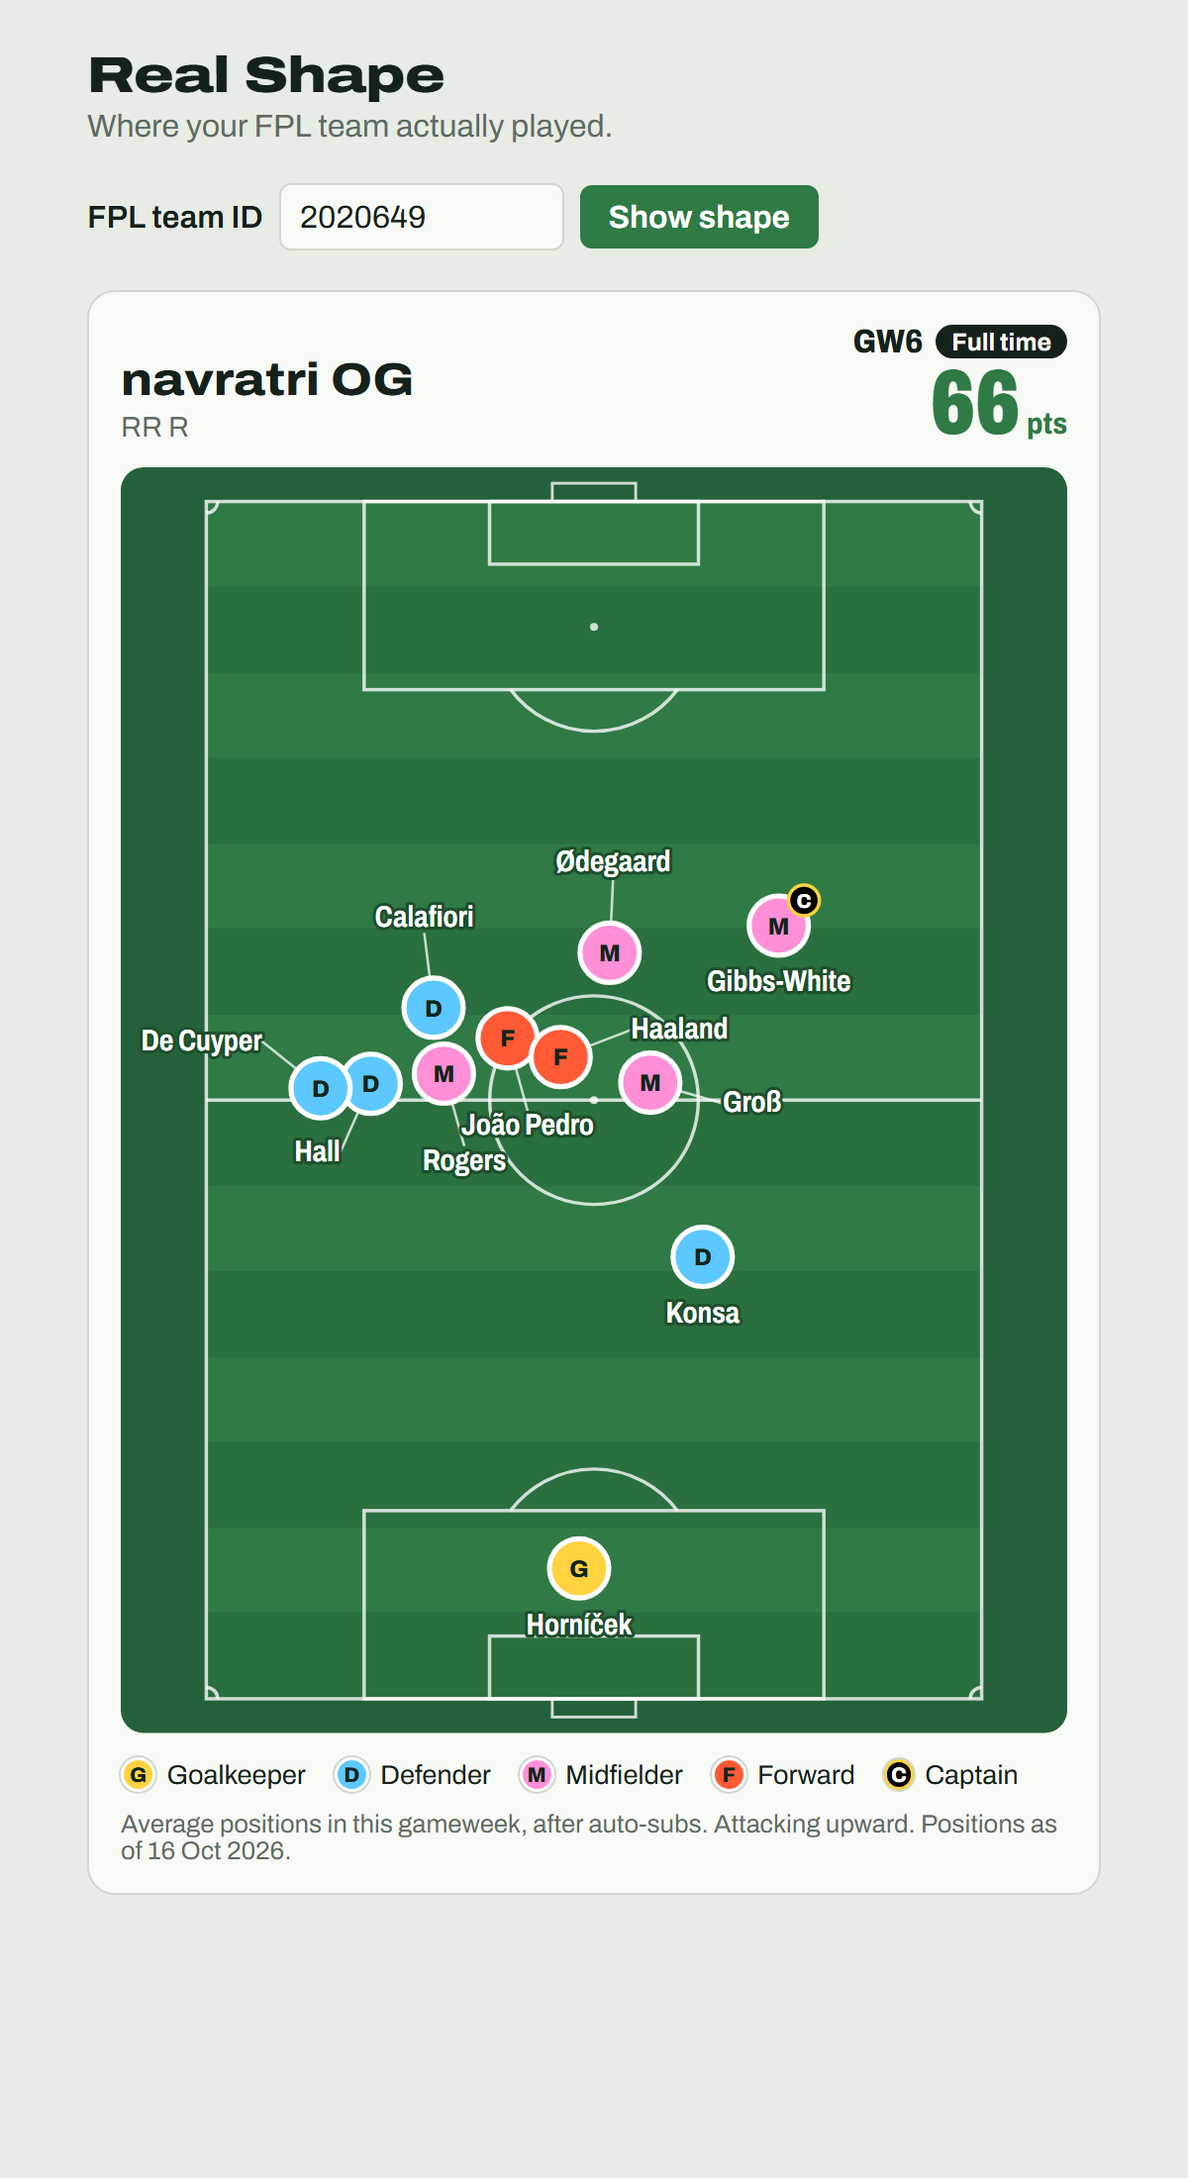
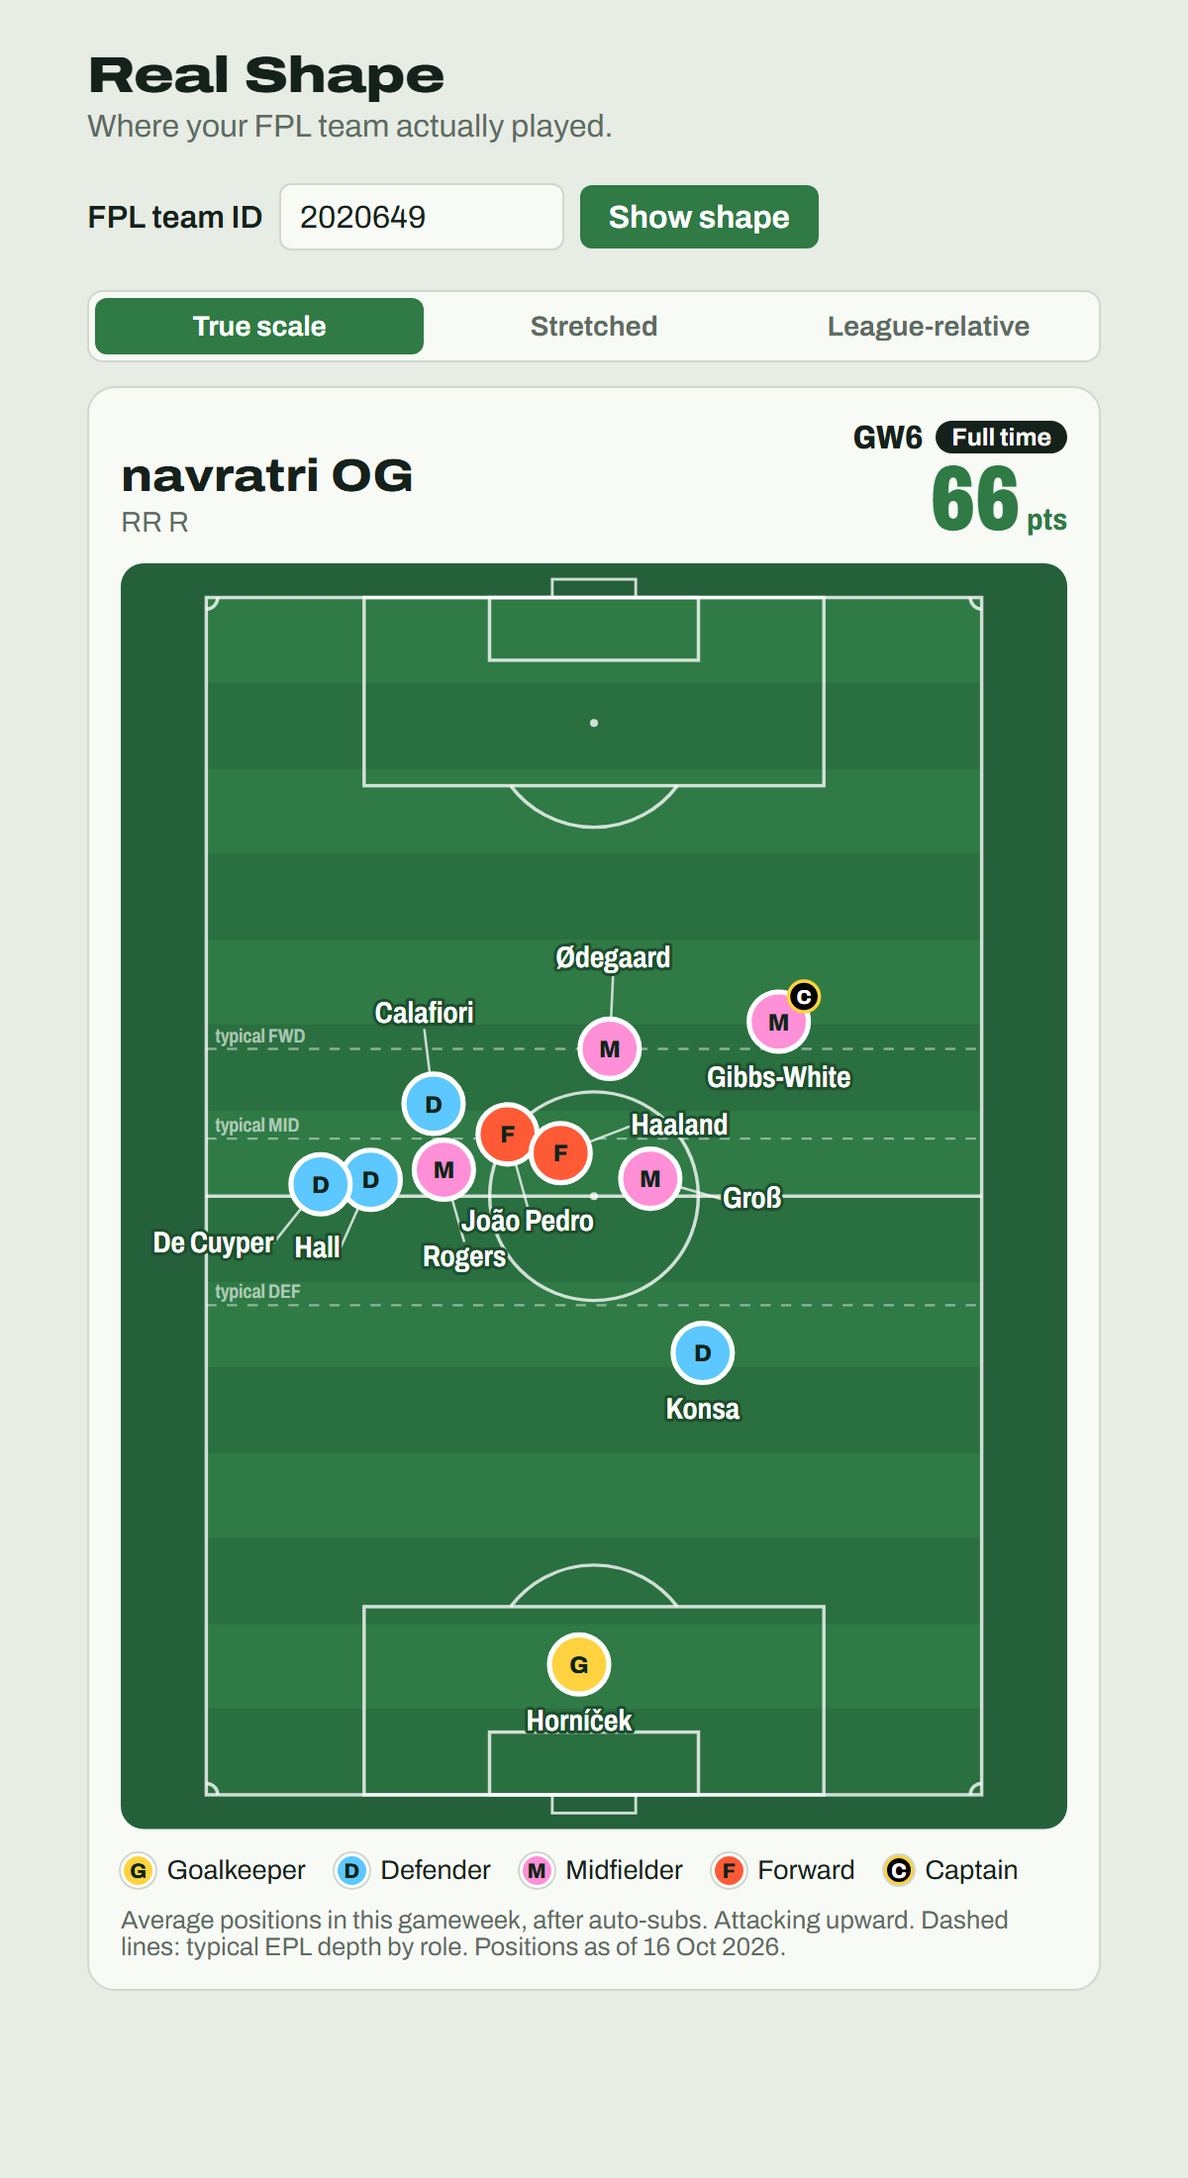
Add depth view buttons: true scale (default), stretched, league-relative (task 13 feedback)

diff --git a/frontend/src/pitchLayout.ts b/frontend/src/pitchLayout.ts
@@ -47,6 +47,51 @@ export type Layout = {
   links: [LaidDot, LaidDot][]
 }
 
+// --- Depth display modes (prototype, owner to pick one) ---------------------
+// true: as measured. stretch: one fixed piecewise-linear stretch of the
+// outfield range. league: outfield depth as a percentile of every EPL outfield
+// player-match (60+ min, GW1-6).
+export type DepthMode = 'true' | 'stretch' | 'league'
+
+// League medians of average depth by role (60+ min, GW1-6), for reference lines.
+export const ROLE_MEDIAN_DEPTH = { DEF: 40.9, MID: 54.8, FWD: 62.3 }
+
+// Outfield average depth at the 0th, 5th, ..., 100th percentile.
+const LEAGUE_QUANTILES = [
+  23.0, 32.0, 35.0, 37.4, 40.0, 41.6, 43.7, 45.4, 46.7, 48.7, 50.3, 51.6, 53.3, 54.9, 56.8, 58.7,
+  60.5, 62.4, 64.2, 67.1, 79.7,
+]
+
+// Keeper zone unchanged, outfield range ~30-75 spread over 24-90.
+const STRETCH: [number, number][] = [
+  [0, 0],
+  [15, 15],
+  [30, 24],
+  [75, 90],
+  [100, 100],
+]
+
+function interpolate(points: [number, number][], v: number) {
+  for (let i = 1; i < points.length; i++) {
+    const [x0, y0] = points[i - 1]
+    const [x1, y1] = points[i]
+    if (v <= x1) return y0 + ((Math.max(v, x0) - x0) / (x1 - x0)) * (y1 - y0)
+  }
+  return points[points.length - 1][1]
+}
+
+export function displayDepth(y: number, role: Role, mode: DepthMode): number {
+  if (mode === 'stretch') return interpolate(STRETCH, y)
+  if (mode === 'league' && role !== 'GK') {
+    const percentile = interpolate(
+      LEAGUE_QUANTILES.map((q, i) => [q, i / 20] as [number, number]),
+      y,
+    )
+    return 20 + percentile * 70
+  }
+  return y
+}
+
 export function toSvg(x: number, y: number): [number, number] {
   return [MARGIN.left + (x / 100) * PITCH_W, MARGIN.top + ((100 - y) / 100) * PITCH_L]
 }
@@ -155,8 +200,25 @@ function labelAt(d: LaidDot, angle: number, px: number, py: number): LaidDot['la
   return { x: px, y: sin > 0 ? py + NAME_SIZE * 0.8 : py - h + NAME_SIZE * 0.8, anchor: 'middle' }
 }
 
-function placeLabels(dots: LaidDot[]) {
-  const placed: Box[] = []
+// Where Pitch draws the "typical DEF / MID / FWD" text in the true-scale view.
+export const REFERENCE_LABEL = { dx: 0.8, dy: -0.6, size: 1.7 }
+
+export function referenceLabelBoxes(): Box[] {
+  return Object.entries(ROLE_MEDIAN_DEPTH).map(([role, depth]) => {
+    const [, y] = toSvg(0, depth)
+    const x0 = MARGIN.left + REFERENCE_LABEL.dx
+    const base = y + REFERENCE_LABEL.dy
+    return {
+      x0,
+      y0: base - REFERENCE_LABEL.size,
+      x1: x0 + textWidth(`typical ${role}`, REFERENCE_LABEL.size),
+      y1: base + 0.3,
+    }
+  })
+}
+
+function placeLabels(dots: LaidDot[], obstacles: Box[]) {
+  const placed: Box[] = [...obstacles]
   const lines: Segment[] = []
   const inside = (b: Box) => b.x0 >= 0 && b.x1 <= VIEW_W && b.y0 >= 0 && b.y1 <= VIEW_H
   const crowded = new Set(
@@ -220,7 +282,7 @@ function placeLabels(dots: LaidDot[]) {
   }
 }
 
-export function layoutDots(dots: PlotDot[]): Layout {
+export function layoutDots(dots: PlotDot[], depth: DepthMode = 'true'): Layout {
   const onPitch: LaidDot[] = []
   const ghosts: LaidDot[] = []
   dots.forEach((dot, i) => {
@@ -240,12 +302,12 @@ export function layoutDots(dots: PlotDot[]): Layout {
       })
       return
     }
-    const [cx, cy] = toSvg(dot.x, dot.y)
+    const [cx, cy] = toSvg(dot.x, displayDepth(dot.y, dot.role, depth))
     onPitch.push({ dot, key, cx, cy, r: DOT_R, label: { x: cx, y: cy, anchor: 'middle' }, sub: subLabel(dot), leader: null })
   })
 
   separate(onPitch)
-  placeLabels(onPitch)
+  placeLabels(onPitch, depth === 'true' ? referenceLabelBoxes() : [])
 
   const links: [LaidDot, LaidDot][] = []
   const byGroup = new Map<number, LaidDot[]>()

diff --git a/frontend/src/App.tsx b/frontend/src/App.tsx
@@ -5,6 +5,7 @@ import { type FormEvent, useEffect, useState } from 'react'
 
 import { ApiError, fetchPlot, type Plot } from './api'
 import PitchCard from './PitchCard'
+import type { DepthMode } from './pitchLayout'
 
 const ERROR_MESSAGES: Record<string, string> = {
   team_not_found: 'No FPL team has this ID.',
@@ -24,7 +25,14 @@ function readUrl() {
     const value = Number(params.get(key))
     return Number.isInteger(value) && value > 0 ? value : null
   }
-  return { team: num('team'), gw: num('gw'), fixture: params.get('fixture') }
+  const depth = params.get('depth')
+  return {
+    team: num('team'),
+    gw: num('gw'),
+    fixture: params.get('fixture'),
+    // Prototype switch while the owner picks a depth display (task 13).
+    depth: (depth === 'stretch' || depth === 'league' ? depth : 'true') as DepthMode,
+  }
 }
 
 function writeUrl(team: number, gw: number) {
@@ -34,11 +42,25 @@ function writeUrl(team: number, gw: number) {
   window.history.replaceState(null, '', url)
 }
 
+const DEPTH_VIEWS: { mode: DepthMode; label: string; hint: string }[] = [
+  { mode: 'true', label: 'True scale', hint: 'Positions as measured, with typical depth by role' },
+  { mode: 'stretch', label: 'Stretched', hint: 'Depth stretched so the outfield spreads over the pitch' },
+  { mode: 'league', label: 'League-relative', hint: 'Height = how advanced compared with all EPL outfield players' },
+]
+
+function writeDepth(depth: DepthMode) {
+  const url = new URL(window.location.href)
+  if (depth === 'true') url.searchParams.delete('depth')
+  else url.searchParams.set('depth', depth)
+  window.history.replaceState(null, '', url)
+}
+
 function App() {
   const initial = readUrl()
   const [input, setInput] = useState(initial.team ? String(initial.team) : '')
   const [teamId, setTeamId] = useState<number | null>(initial.team)
   const [gw] = useState<number | null>(initial.gw)
+  const [depth, setDepth] = useState<DepthMode>(initial.depth)
   const [result, setResult] = useState<Result | null>(null)
   const [inputError, setInputError] = useState<string | null>(null)
   const [fixture, setFixture] = useState<Plot | null>(null)
@@ -99,10 +121,28 @@ function App() {
       </form>
 
       {inputError && <p className="error">{inputError}</p>}
-      {fixture && <PitchCard plot={fixture} />}
+      {(fixture || (current && 'plot' in current)) && (
+        <div className="view-switch" role="group" aria-label="Depth view">
+          {DEPTH_VIEWS.map((v) => (
+            <button
+              key={v.mode}
+              type="button"
+              title={v.hint}
+              aria-pressed={depth === v.mode}
+              onClick={() => {
+                setDepth(v.mode)
+                writeDepth(v.mode)
+              }}
+            >
+              {v.label}
+            </button>
+          ))}
+        </div>
+      )}
+      {fixture && <PitchCard plot={fixture} depth={depth} />}
       {!fixture && key !== null && current === null && <p className="muted">Loading…</p>}
       {!fixture && current && 'error' in current && <p className="error">{current.error}</p>}
-      {!fixture && current && 'plot' in current && <PitchCard plot={current.plot} />}
+      {!fixture && current && 'plot' in current && <PitchCard plot={current.plot} depth={depth} />}
     </main>
   )
 }

diff --git a/frontend/src/PitchCard.tsx b/frontend/src/PitchCard.tsx
@@ -3,7 +3,13 @@
 
 import type { Plot, Role } from './api'
 import Pitch from './Pitch'
-import { ROLE_LETTER } from './pitchLayout'
+import { type DepthMode, ROLE_LETTER } from './pitchLayout'
+
+const DEPTH_NOTE: Record<DepthMode, string> = {
+  true: 'Dashed lines: typical EPL depth by role.',
+  stretch: 'Depth stretched for readability.',
+  league: 'Height = how advanced compared with all EPL outfield players.',
+}
 
 const ROLE_NAMES: Record<Role, string> = {
   GK: 'Goalkeeper',
@@ -22,7 +28,7 @@ function formatDate(iso: string) {
   return new Date(`${iso}Z`).toLocaleDateString('en-GB', { day: 'numeric', month: 'short', year: 'numeric' })
 }
 
-export default function PitchCard({ plot }: { plot: Plot }) {
+export default function PitchCard({ plot, depth = 'true' }: { plot: Plot; depth?: DepthMode }) {
   const state = STATE_TEXT[plot.state]
   const hasGhosts = plot.dots.some((d) => d.is_ghost)
   const hasLinks = plot.dots.some((d) => d.link_group !== null)
@@ -46,7 +52,11 @@ export default function PitchCard({ plot }: { plot: Plot }) {
         </div>
       </header>
 
-      <Pitch dots={plot.dots} title={`${plot.team_name}, gameweek ${plot.gw}: real average positions`} />
+      <Pitch
+        dots={plot.dots}
+        depth={depth}
+        title={`${plot.team_name}, gameweek ${plot.gw}: real average positions`}
+      />
 
       <footer className="card-foot">
         <ul className="legend">
@@ -74,7 +84,7 @@ export default function PitchCard({ plot }: { plot: Plot }) {
           )}
         </ul>
         <p className="card-note">
-          {state.note} Attacking upward.
+          {state.note} Attacking upward. {DEPTH_NOTE[depth]}
           {plot.data_as_of && ` Positions as of ${formatDate(plot.data_as_of)}.`}
         </p>
       </footer>

diff --git a/frontend/src/Pitch.tsx b/frontend/src/Pitch.tsx
@@ -5,12 +5,16 @@ import { useMemo } from 'react'
 
 import type { PlotDot } from './api'
 import {
+  type DepthMode,
   type LaidDot,
   layoutDots,
   MARGIN,
   NAME_SIZE,
   PITCH_L,
   ROLE_LETTER,
+  REFERENCE_LABEL,
+  ROLE_MEDIAN_DEPTH,
+  toSvg,
   PITCH_W,
   SUB_SIZE,
   VIEW_H,
@@ -124,8 +128,34 @@ function Ghost({ d }: { d: LaidDot }) {
   )
 }
 
-export default function Pitch({ dots, title }: { dots: PlotDot[]; title: string }) {
-  const layout = useMemo(() => layoutDots(dots), [dots])
+function ReferenceLines() {
+  return (
+    <g className="reference">
+      {(Object.entries(ROLE_MEDIAN_DEPTH) as [string, number][]).map(([role, depth]) => {
+        const [, y] = toSvg(0, depth)
+        return (
+          <g key={role}>
+            <line x1={L} y1={y} x2={L + PITCH_W} y2={y} />
+            <text x={L + REFERENCE_LABEL.dx} y={y + REFERENCE_LABEL.dy} fontSize={REFERENCE_LABEL.size}>
+              {`typical ${role}`}
+            </text>
+          </g>
+        )
+      })}
+    </g>
+  )
+}
+
+export default function Pitch({
+  dots,
+  title,
+  depth = 'true',
+}: {
+  dots: PlotDot[]
+  title: string
+  depth?: DepthMode
+}) {
+  const layout = useMemo(() => layoutDots(dots, depth), [dots, depth])
   return (
     <svg className="pitch" viewBox={`0 0 ${VIEW_W} ${VIEW_H}`} role="img" aria-label={title}>
       <rect className="pitch-surround" x={0} y={0} width={VIEW_W} height={VIEW_H} rx={2} />
@@ -140,6 +170,7 @@ export default function Pitch({ dots, title }: { dots: PlotDot[]; title: string 
         />
       ))}
       <Markings />
+      {depth === 'true' && <ReferenceLines />}
       {layout.links.map(([a, b]) => (
         <line key={`${a.key}-link`} className="link" x1={a.cx} y1={a.cy} x2={b.cx} y2={b.cy} />
       ))}

diff --git a/frontend/src/index.css b/frontend/src/index.css
@@ -113,6 +113,29 @@ input:focus-visible {
   color: var(--muted);
 }
 
+.view-switch {
+  display: flex;
+  margin-bottom: 0.75rem;
+  border: 1px solid var(--card-line);
+  border-radius: 8px;
+  background: var(--card);
+  padding: 3px;
+  gap: 3px;
+}
+
+.view-switch button {
+  flex: 1;
+  padding: 0.4rem 0.5rem;
+  font-size: 0.88rem;
+  background: transparent;
+  color: var(--muted);
+}
+
+.view-switch button[aria-pressed='true'] {
+  background: var(--grass);
+  color: #fff;
+}
+
 /* Gameweek card */
 
 .pitch-card {
@@ -314,6 +337,20 @@ input:focus-visible {
 
 .pitch-lines .goal {
   stroke-width: 0.25;
+}
+
+.reference line {
+  stroke: #fff;
+  stroke-width: 0.2;
+  stroke-dasharray: 0.9 0.9;
+  opacity: 0.45;
+}
+
+.reference text {
+  fill: #fff;
+  opacity: 0.6;
+  font-weight: 600;
+  font-stretch: 80%;
 }
 
 .link {

diff --git a/README.md b/README.md
@@ -35,7 +35,7 @@ FPL shows a team as a tidy formation, but managers pick attacking "defenders" an
 
 - **Task 12 — Gameweek plot API endpoint** (done 2026-10-17): `GET /api/team/{team_id}/plot/{gw}` and `/plot/latest` return the graphic's JSON: team name, gameweek, `state` (preview / locked), `prev_gw` / `next_gw`, `data_as_of` (latest finished sync) and the dots (name, web name, role, club, slot, x / y rounded to 2 decimals, captain, ghost and reason, `from_gw`, `link_group`, `replaces`). `backend/app/logic/plot.py` joins task 11's dots with player details. `prev_gw` stops at the team's first gameweek, `next_gw` at the newest passed deadline. `latest` falls back one gameweek while FPL is not serving fresh picks yet. The web app never loads the Sofascore adapter (checked by a test and in the server log). Owner's team GW1-6 checked live, all locked, 11 dots, no ghosts. Docs and samples: `docs/api.md`. 215 tests pass.
 
-- **Task 13 — Pitch rendering (static, one locked GW)** (awaiting approval, 2026-10-17): React `Pitch` component draws an SVG pitch to scale (68 x 105 m, mown stripes, full markings) with the team attacking upward, from `GET /api/team/{id}/plot/{gw}`. Dots colored by FPL role with the role letter inside, a legend, short-name labels placed to avoid collisions, a black "C" captain badge, a "from GWx" / "auto-sub" second line, dashed lines joining double-gameweek dots, and greyed ghosts on the sideline. Players in the same spot are nudged apart by at most about 2 m. Crowded dots get callout labels on leader lines so each name clearly belongs to one dot. `PitchCard` adds the team name, GW number, the gameweek score (and any transfer hit, now in the plot API as `points` / `transfers_cost`), a Full time / Preview badge and the data date. Self-hosted Archivo font (ready for image export), fits a 360 px phone. The interim list view is removed. Dev-only sample with every edge case at `?fixture=edges`. Screenshots: `docs/screenshots/pitch-v1.png` (+ `-phone`, `-edge-cases`).
+- **Task 13 — Pitch rendering (static, one locked GW)** (awaiting approval, 2026-10-17): React `Pitch` component draws an SVG pitch to scale (68 x 105 m, mown stripes, full markings) with the team attacking upward, from `GET /api/team/{id}/plot/{gw}`. Dots colored by FPL role with the role letter inside, a legend, short-name labels placed to avoid collisions, a black "C" captain badge, a "from GWx" / "auto-sub" second line, dashed lines joining double-gameweek dots, and greyed ghosts on the sideline. Players in the same spot are nudged apart by at most about 2 m. Crowded dots get callout labels on leader lines so each name clearly belongs to one dot. `PitchCard` adds the team name, GW number, the gameweek score (and any transfer hit, now in the plot API as `points` / `transfers_cost`), a Full time / Preview badge and the data date. Three depth views behind buttons (True scale with typical-depth lines by role, the default; Stretched; League-relative), because average positions bunch up in midfield (comparisons in `docs/screenshots/depth-options/`). Self-hosted Archivo font (ready for image export), fits a 360 px phone. The interim list view is removed. Dev-only sample with every edge case at `?fixture=edges`. Screenshots: `docs/screenshots/pitch-v1.png` (+ `-phone`, `-edge-cases`).
 
 ## Next task
 Waiting for owner approval on task 13 (`tasks/13-pitch-rendering.md`). Then **Task 14 — Gameweek mode UI + navigation** → `tasks/14-gameweek-mode-ui.md`

diff --git a/tasks/13-pitch-rendering.md b/tasks/13-pitch-rendering.md
@@ -28,6 +28,7 @@ A good-looking pitch graphic for one locked gameweek, drawn from the plot API.
 - **Look:** Archivo variable font (self-hosted via `@fontsource-variable/archivo`, so the export in task 15 gets the same font), wide heavy team name, condensed `GW6` numeral. Role colors chosen to stay apart on grass: GK yellow, DEF sky blue, MID pink, FWD orange-red, each dot also carries its role letter (G / D / M / F) so it reads without color. Captain: black "C" badge on the dot. "from GWx" / "auto-sub" as a small second label line. Double gameweek: dashed line between the two dots. Ghosts: dashed grey circles in the right margin (the sideline). The pitch keeps the same colors in dark mode so exports match.
 - **State badge wording:** locked shows "Full time", preview shows "Preview". Say if you prefer "Locked".
 - **Iteration 2 (owner feedback, 2026-10-17):** (1) the gameweek score is shown in the header ("66 pts", plus "−4 transfer hit" when there is one). `points` / `transfers_cost` were added to the team service and the plot API (from FPL picks `entry_history`; tests updated, 215 pass). (2) Names next to close dots were ambiguous, so every dot with another dot within ~11 m now gets a callout: the label moves out of the cluster and a thin leader line joins it to its own dot. Placement tries 16 directions at 3 distances and avoids labels over dots, lines through dots and crossing lines. Lone dots keep the plain label next to them. Checked on GW1-6 (GW2's Haaland / João Pedro overlap is now clear).
+- **Iteration 3 (owner feedback, 2026-10-17): "everyone is in midfield".** Not a bug: average positions compress toward the middle. Over all 1,144 outfield player-matches of 60+ min (GW1-6), depth runs 23-80 with DEF median 41, MID 55, FWD 62; keepers 9-14 every match, so the frame is right. Haaland's GW6 (53.6) is his deepest of the season. Three depth views are on the page as buttons above the card (also `?depth=true|stretch|league`), **default True scale**: (A) true scale with dashed "typical DEF / MID / FWD" lines at the league medians; (B) one fixed piecewise stretch, keeper zone unchanged, 30-75 spread over 24-90; (C) outfield depth as a league percentile, drawn over 20-90. Side-by-side comparisons: `docs/screenshots/depth-options/gw6-compare.png`, `gw2-compare.png`. The league medians and percentiles are hard-coded in `pitchLayout.ts` from the GW1-6 data; if a view other than true scale is kept, they should come from the API and refresh with each sync. Owner to decide which views to keep.
 - **Overlapping players:** dots closer than 1.7 dot radii are pushed apart, at most 0.9 radius (about 2.3 m, under 2.5% of the pitch), so two players in the same spot both show (GW6: Hall and De Cuyper are 1.4 units apart). Labels try 8 spots around each dot and take the first with no collision, else the least overlap.
 - **Screenshots:** `docs/screenshots/pitch-v1.png` (owner's team 2020649, GW6 locked, 600 px wide), `pitch-v1-phone.png` (same at 360 px), `pitch-v1-edge-cases.png`. The owner's team has no ghost, double gameweek or "from GW" label yet, so the edge-case shot uses a dev-only sample: `http://localhost:5173/?fixture=edges` (`src/fixtures/edgeCases.ts`, not in the production build).
 - Checked: `npm run build` and `npm run lint` clean; GW1-6 render; headless Chrome screenshots at 600 px and 360 px.
